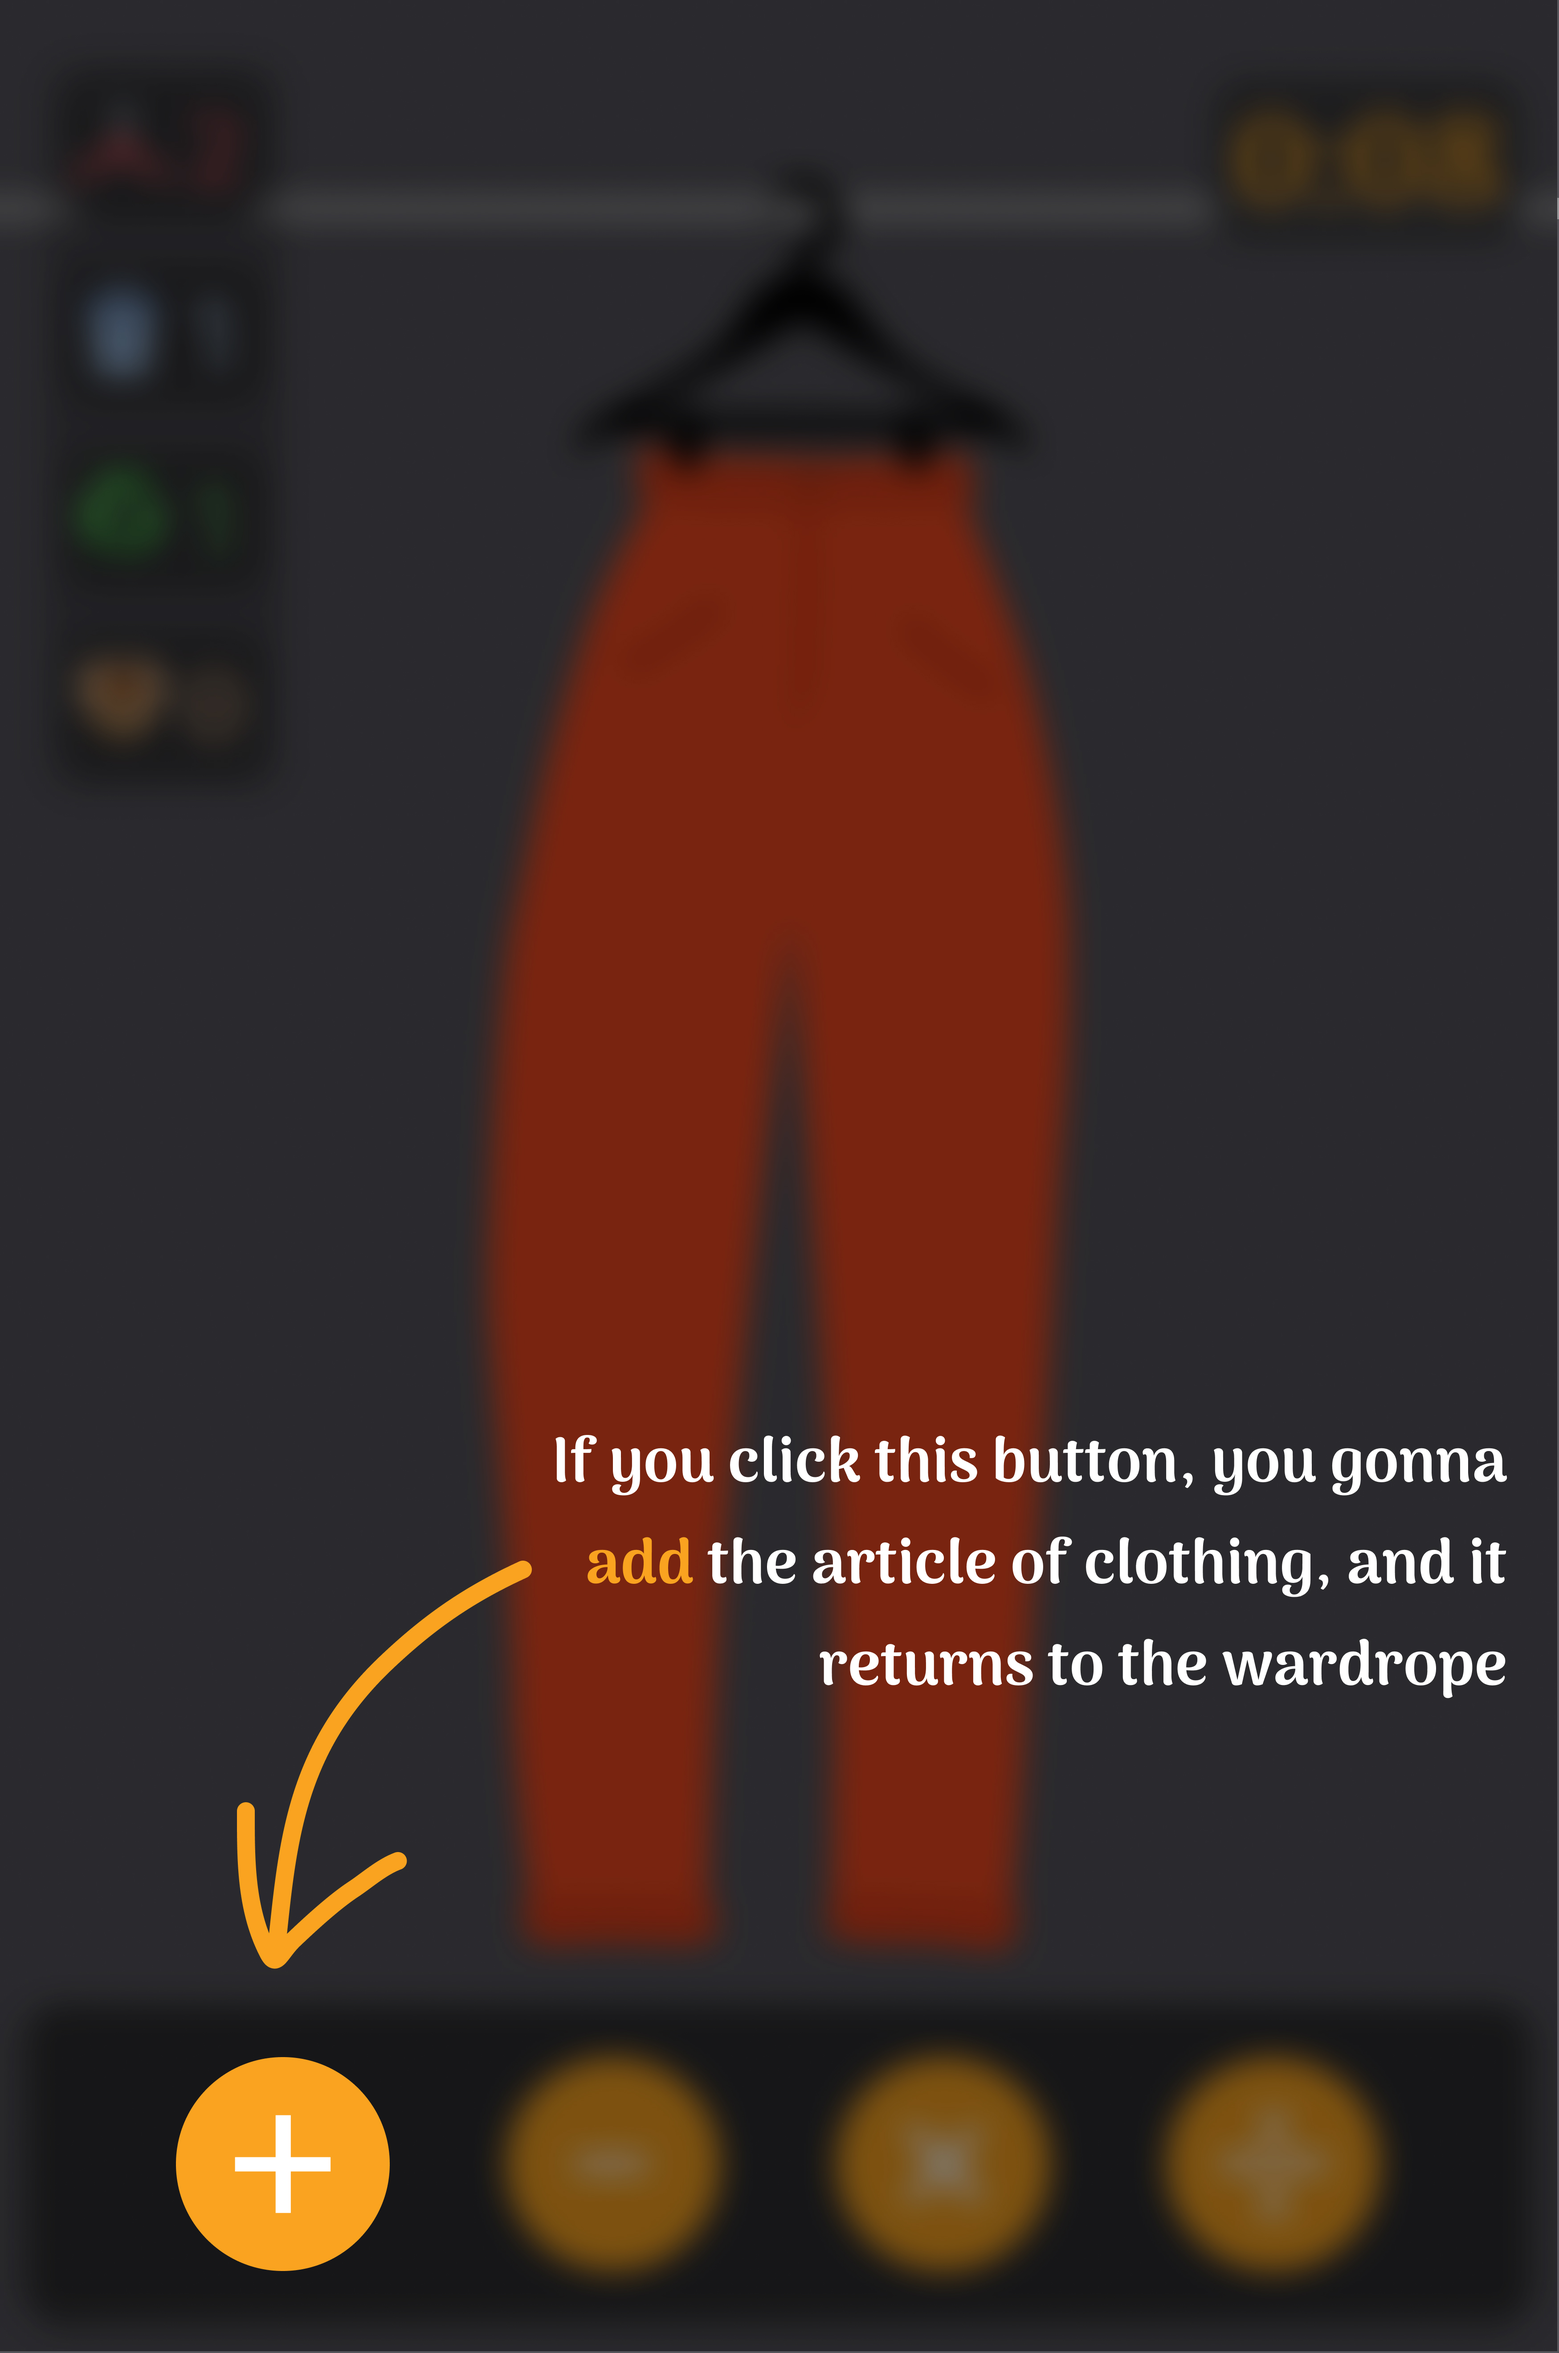
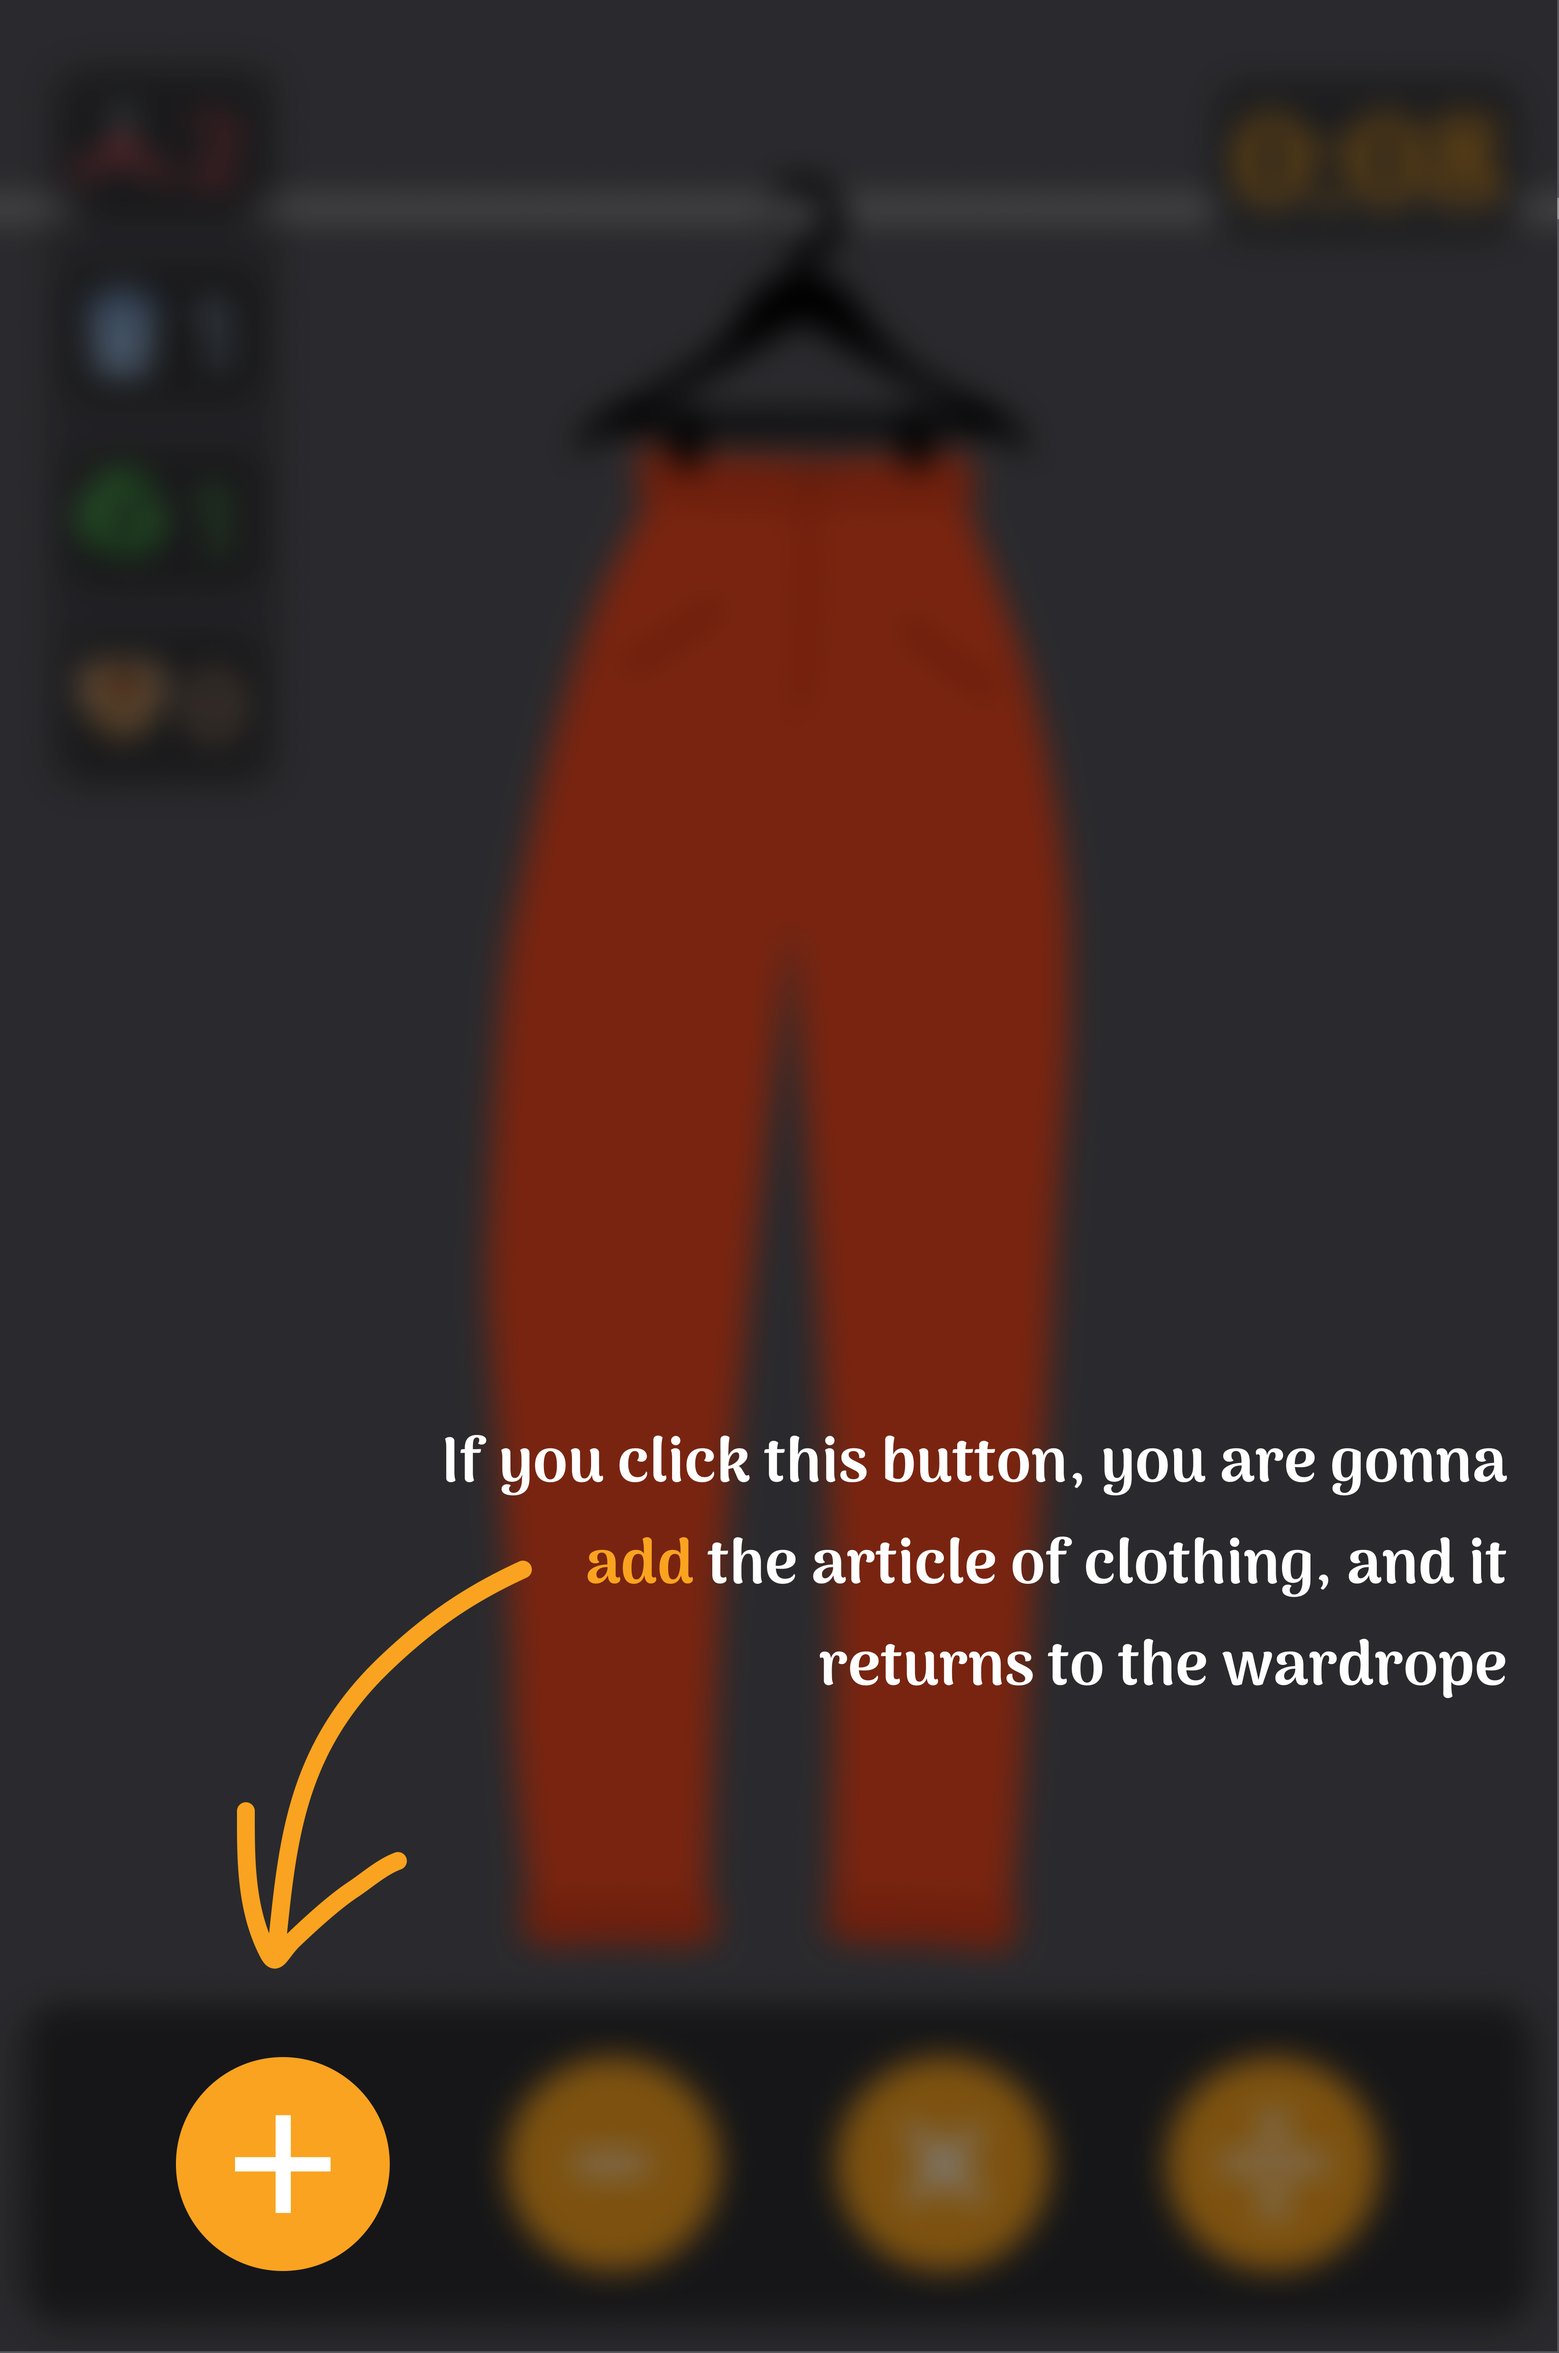
Corrigi uns erros de inglês

Changed region(s): [[0.2803, 0.5938, 0.8409, 0.6562]]

diff --git a/FashionsCalculator.swiftpm/MyApp.swift b/FashionsCalculator.swiftpm/MyApp.swift
@@ -4,7 +4,7 @@ import SwiftUI
 struct MyApp: App {
     var body: some Scene {
         WindowGroup {
-            GameView()
+            LauchingView()
         }
     }
 }
